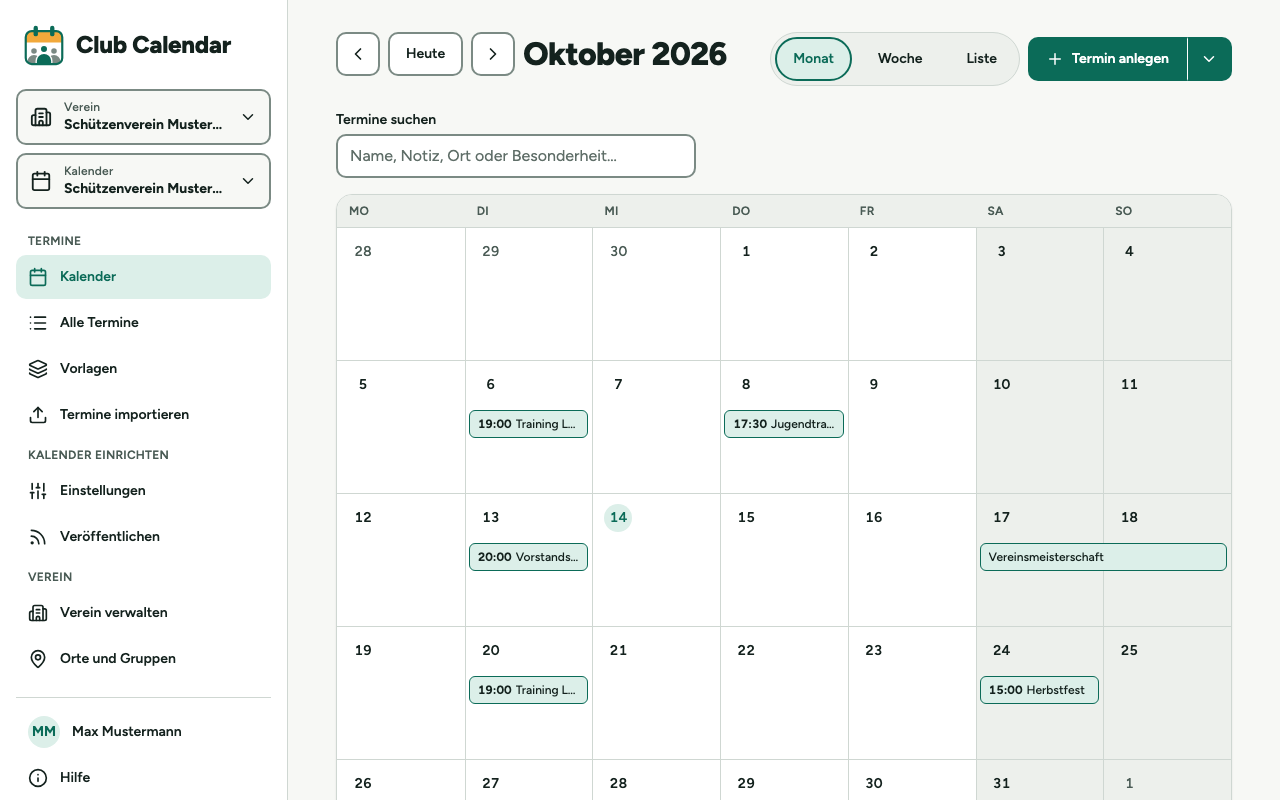
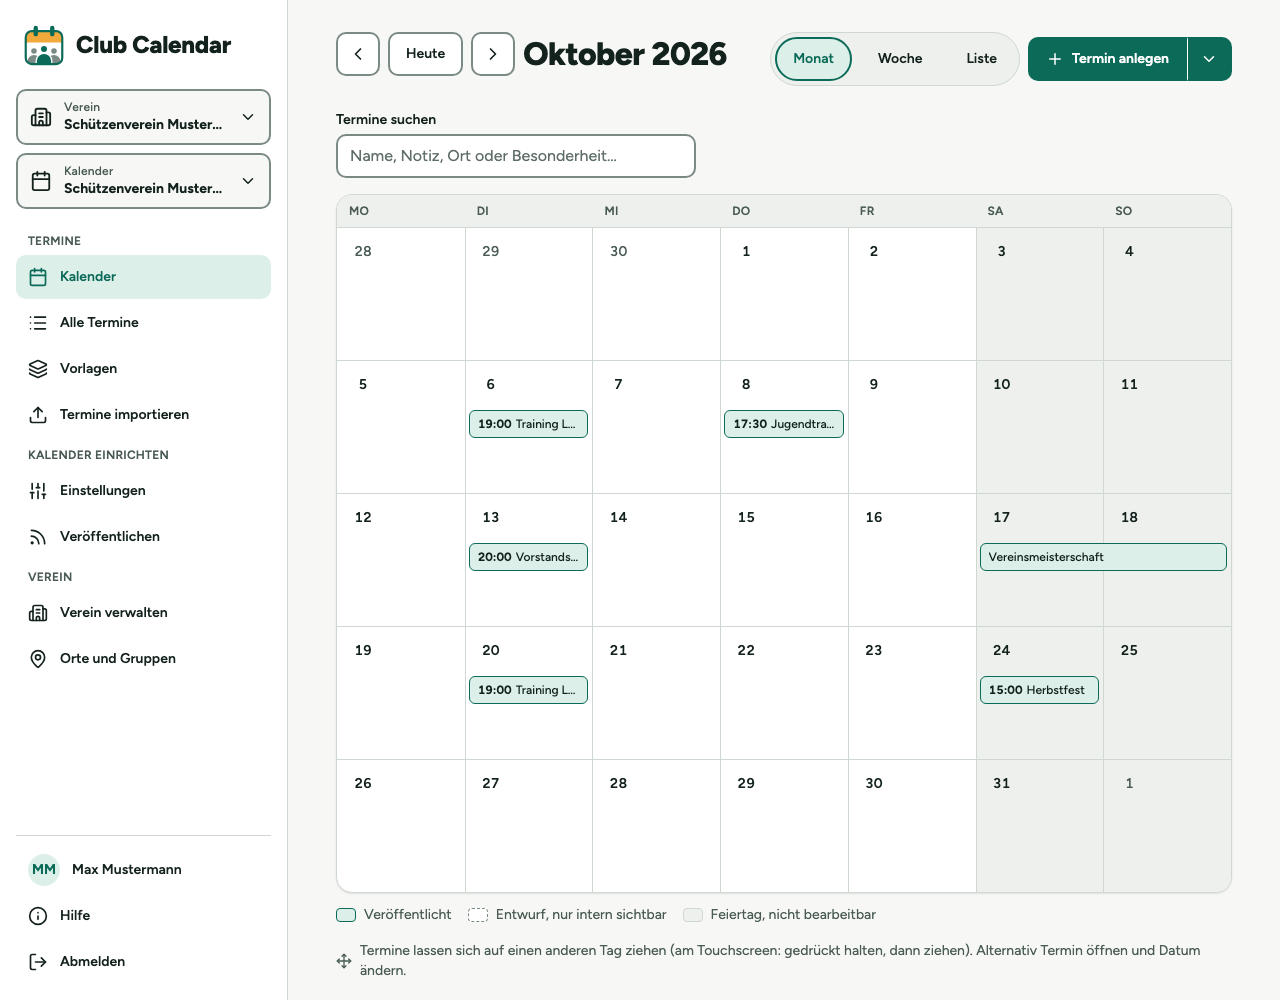
fix(docs): deterministic calendar-month screenshot

diff --git a/frontend/e2e/docs/shots.ts b/frontend/e2e/docs/shots.ts
@@ -31,6 +31,8 @@ export interface ShotOptions {
 
 /** Waits for network and fonts, hides volatile UI and writes docs/screenshots/<lang>/<id>.png. */
 export async function shot(page: Page, lang: Lang, id: string, opts: ShotOptions = {}) {
+  // The pointer stays where the last click was and would show a hover state (e.g. a day circle).
+  await page.mouse.move(VIEWPORT.width - 2, 2);
   await page.addStyleTag({ content: HIDE_VOLATILE });
   await page.waitForLoadState("networkidle");
   await page.evaluate(() => document.fonts.ready);
@@ -45,8 +47,8 @@ export async function shot(page: Page, lang: Lang, id: string, opts: ShotOptions
 }
 
 /** Fixed clock, German or English UI, light theme. Call before the first navigation. */
-export async function prepare(page: Page, lang: Lang) {
-  await page.setViewportSize(VIEWPORT);
+export async function prepare(page: Page, lang: Lang, height = VIEWPORT.height) {
+  await page.setViewportSize({ width: VIEWPORT.width, height });
   await page.clock.setFixedTime(FIXED_NOW);
   await page.addInitScript((l) => {
     localStorage.setItem("language", l);

diff --git a/frontend/e2e/docs/getting-started.docs.ts b/frontend/e2e/docs/getting-started.docs.ts
@@ -13,7 +13,8 @@ for (const lang of LANGS) {
     });
 
     test("calendar-month", async ({ page }) => {
-      await prepare(page, lang);
+      // Tall enough for all six week rows of the month grid.
+      await prepare(page, lang, 1000);
       const seed = await seedDocs(page, lang);
       await signIn(page, lang, seed.email);
       await page.goto(seed.url);
